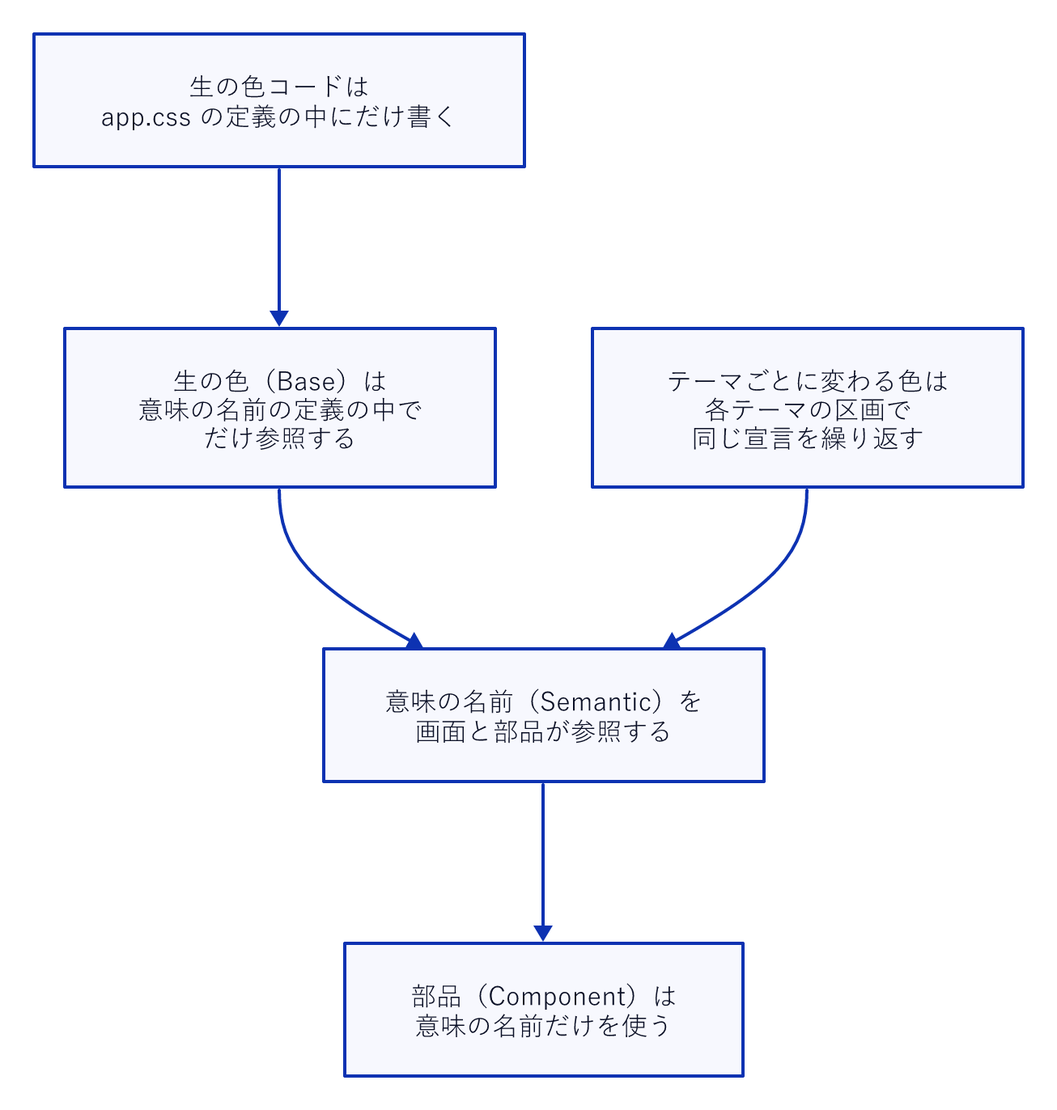
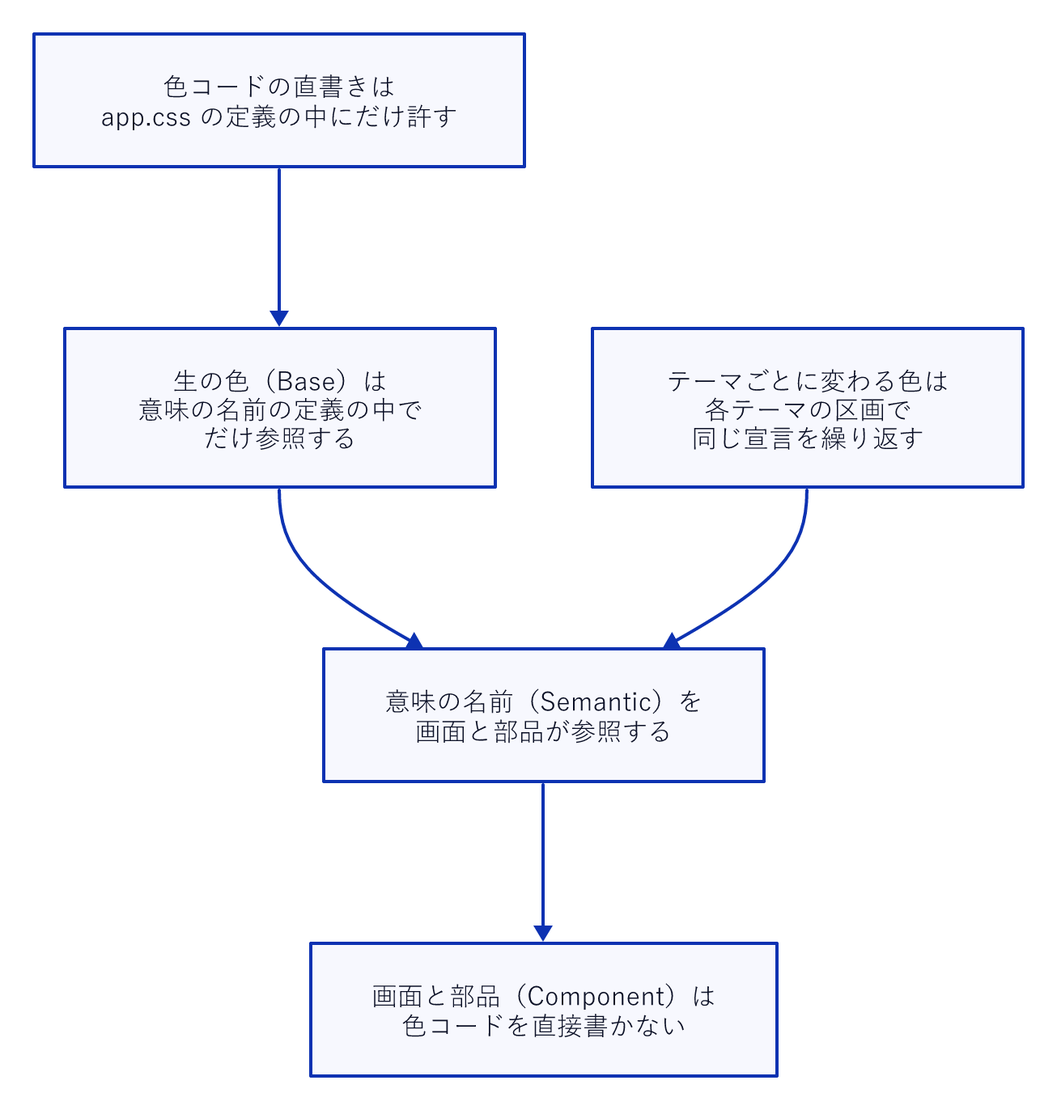
docs(book): 改訂 4 — 第Ⅱ部-1〜8 に査読の指摘を反映する
何を:
- 第Ⅱ部-1 / 4 / 8 の群の導入を「この章から〜を扱います」型のメタ談話から、製品の事実と問いの形に書き直した
- 第Ⅱ部-1「なぜ SvelteKit だったのか」を著者の一人称に直し、裏の取れない「コールドスタート 1〜2 秒で運用」と「2026 年 7 月から本番は Aurora DSQL」の断定を外した。AGENTS.md の欠落、Dependabot の版の区分、型情報を使う静的検査の文を直した
- 第Ⅱ部-2 の窓口 / 正面 / 実装固有の取得部品の呼び分け、事故の数（3 つ）、契約→プラン、前者 / 後者の指示語を直した
- 第Ⅱ部-3 の「色コードの直書き」と「生の色」の区別、基本部品名のコード表記、ヘッダーの語を直した
- 第Ⅱ部-4 に楽観的な並行制御と行単位のアクセス制御の初出の定義を置き、第Ⅱ部-6 に短い言い直しを添えた。台帳の述語の引用を平文にした
- 第Ⅱ部-5 の活動セット / やることの一覧 / 登録簿、第Ⅱ部-6 の関係データベース / 避けられなくする要因 / 当たる、第Ⅱ部-7 の特定の区画への集中 / 確かめる、第Ⅱ部-8 の設計書の表と実装の書き分け / 乱数 / 一時パスワードの比較 / おやカギコードの関門を直した
- 図 3 枚（layered-architecture / design-system / family-group）のラベルを直して描き直した

何のために:
- p2a 査読報告（tmp/briefs/reports/p2a-review.md）の [止める] と [直す] を全件反映し、[任意] のうち妥当なものを反映するため。第Ⅱ部-7 の共有 PIN の節と第Ⅱ部-1 の技術スタック表の段落は改訂 1 で意図して削除したものなので復元していない

検証:
- textlint（zenn）: 8 章とも errors 0 / check-terms T4: 8 章とも警告 0 / check-zenn Z13: 8 章とも警告 0 / check-diagrams: errors 0
- npm run check: 全段 errors 0 / npm test: 全 pass
- 図 3 枚の PNG を開いて確認した

diff --git a/books/ganbari-quest-design/layered-architecture.md b/books/ganbari-quest-design/layered-architecture.md
@@ -4,9 +4,9 @@ title: "第Ⅱ部-2　5 つの層と 4 つのデータベース実装 ― 画面
 
 > リポジトリ: [Takenori-Kusaka/ganbari-quest](https://github.com/Takenori-Kusaka/ganbari-quest)
 
-アプリは 5 つの層に分かれ、上の層は下の層にだけ依存します。画面は 71 ページと 108 本の API、サービスは 121 本、データ取得の窓口の型は 38 本です。層に分ける設計は珍しくありません。設計図は 2026 年 4 月からあり、生成AIはそれを読んで書いていました。それでも境界は何度も破られました。設計図を読める生成AIに、層の境界を守らせるには何が要るのでしょうか。
+アプリは 5 つの層に分かれ、上の層は下の層にだけ依存します。画面は 71 ページと 108 本の API、サービスは 121 本、データ取得の窓口の型（インターフェース）は 38 本です。層に分ける設計は珍しくありません。設計図は 2026 年 4 月からあり、生成AIはそれを読んで書いていました。それでも境界は何度も破られました。設計図を読める生成AIに、層の境界を守らせるには何が要るのでしょうか。
 
-守るのは設計図ではなく、境界を越えた瞬間に落ちるテストでした。境界を破った 4 つの事故と、事故のあとに置かれたテストを順に見ます。
+守るのは設計図ではなく、境界を越えた瞬間に落ちるテストでした。境界を破った 3 つの事故と、事故のあとに置かれたテストを順に見ます。
 
 ## 5 つの層
 
@@ -20,7 +20,7 @@ title: "第Ⅱ部-2　5 つの層と 4 つのデータベース実装 ― 画面
 
 画面の層の決まりは短いものです。`+page.svelte` に業務の処理を書かない。データの取得は `+page.server.ts` の `load` で行う。画面部品の中で直接 `fetch` しない。`<style>` は 50 行以下で、行内の見た目の指定は動的な値だけ。サービスの層の決まりは「`+server.ts` からデータベース接続層を直接呼ばず、必ずサービスを経由する」です[^archdoc]。
 
-設計パターンは 4 つです。データ取得を型の裏に隠す窓口、実装を選んで返す選択関数、複数の部品を 1 つの入口にまとめる正面、そして後処理のフックです。フックは、活動を記録したあとに走る副作用（スタンプ、レベル判定、通知）を、実行時の読み込みと例外の捕捉で疎に結びます。1 つのフックが失敗しても、記録そのものは止まりません[^archdoc]。
+設計パターンは 4 つです。データベースの実装ごとに取得の処理をまとめる部品、実装を選んで返す選択関数、それらを 1 つの入口にまとめる窓口、そして後処理のフックです。フックは、活動を記録したあとに走る副作用（スタンプ、レベル判定、通知）を、実行時の読み込みと例外の捕捉で疎に結びます。1 つのフックが失敗しても、記録そのものは止まりません[^archdoc]。
 
 ## 4 つのデータベース実装
 
@@ -41,19 +41,19 @@ title: "第Ⅱ部-2　5 つの層と 4 つのデータベース実装 ― 画面
 
 **狙い。** 実装の判定は、環境変数の値を見る 1 つの関数に寄せてありました。Aurora DSQL かどうかを返す関数です。
 
-**起きたこと。** その関数が `pglite` を既定の `sqlite` として扱っていました。NUC では、活動の記録と取り消しを 1 つのトランザクションで行う経路、UUID の防護、置き換え取り込みの PostgreSQL 向けの手順がすべて無効になっていました。手元の SQLite でも本番の Aurora DSQL でも再現せず、NUC の PGlite でだけ起きます[^backend]。
+**起きたこと。** その関数が `pglite` を既定の `sqlite` として扱っていました。NUC では、活動の記録と取り消しを 1 つのトランザクションで行う経路、識別子の形式（UUID）の検査、置き換え取り込みの PostgreSQL 向けの手順がすべて無効になっていました。手元の SQLite でも本番の Aurora DSQL でも再現せず、NUC の PGlite でだけ起きます[^backend]。
 
 同じ月に、もう 1 つ見つかりました。使用時間の記録の窓口が、SQLite の実装を直接読み込んでいました。本番の PostgreSQL 系では表が作られておらず例外になり、警告のログと「0 分」の表示に化けていました[^facadetest]。
 
 **なぜ。** 判定を「Aurora DSQL か、それ以外か」の 2 値で書いたため、PGlite が「それ以外」に落ちました。窓口が実装を直接読み込んだのは、窓口の決まりが文書にしか無かったからです。
 
-**変えたこと。** 判定を「PostgreSQL 系（Aurora DSQL と PGlite）か、SQLite か」の 2 値にし、`isPgBackend()` の 1 関数に寄せました。Aurora DSQL と PGlite を個別に分岐しません[^backend]。窓口にはテストが 3 条件を検査します。窓口は `./sqlite/`、`./dsql/`、`./demo/` を読み込まない。選択関数 `getRepos()` を少なくとも 1 回呼ぶ。窓口の型ごとに 3 つの実装ファイルが揃っている[^facadetest]。
+**変えたこと。** 判定を「PostgreSQL 系（Aurora DSQL と PGlite）か、SQLite か」の 2 値にし、`isPgBackend()` の 1 関数に寄せました。Aurora DSQL と PGlite を個別に分岐しません[^backend]。窓口に対しては、テストが 3 つの条件を検査します。窓口は `./sqlite/`、`./dsql/`、`./demo/` を読み込まない。選択関数 `getRepos()` を少なくとも 1 回呼ぶ。窓口の型ごとに 3 つの実装ファイルが揃っている[^facadetest]。
 
 **読者のリポジトリでは。** 実装を切り替える判定が「A か、それ以外か」の形なら、3 つ目の実装が来たときにどちらへ落ちるかを確かめてください。
 
 ## 層を自動検査が守る
 
-「画面からデータベースに触らない」は、生成AIへの指示書に散文で書かれていました。守るのは人でした。[第Ⅴ部-4](fitness-functions) で見るとおり、2026 年 6 月にこれは走査するテストになりました。`src/routes` 配下の全ファイルから、`drizzle-orm` や表の定義や実装固有の窓口への読み込みを列挙します。品質保証部のレビューで、実行時の読み込みによるすり抜けが見つかり、対象に加わりました[^routedb]。
+「画面からデータベースに触らない」は、生成AIへの指示書に散文で書かれていました。守るのは人でした。[第Ⅴ部-4](fitness-functions) で見るとおり、2026 年 6 月にこれは走査するテストになりました。`src/routes` 配下の全ファイルから、`drizzle-orm` や表の定義や実装固有の取得部品への読み込みを列挙します。品質保証部のレビューで、実行時の読み込みによるすり抜けが見つかり、対象に加わりました[^routedb]。
 
 窓口の一致のテスト、実装判定の 1 関数化、画面の境界のテスト。3 つとも 2026 年 6 月から 8 月に、事故のあとで置かれました。層の設計図は 4 月からあり、生成AIはそれを読んで書いていました。それでも境界は破られました。
 
@@ -65,17 +65,17 @@ title: "第Ⅱ部-2　5 つの層と 4 つのデータベース実装 ― 画面
 
 照合には、前方一致の落とし穴が記録されています。`/ops` に素朴な前方一致を使うと、`/opsedit` のような実在しない経路も巻き込みます。ファイルの冒頭に、綴りを直してはいけない負例として残されています[^authorization]。
 
-識別子の取り違えにも防護があります。認証基盤が返す利用者の識別子（`sub`）は、アプリのデータベースの `users.user_id` ではありません。所属、招待、子供の表はすべて後者を参照します。前者を渡すと一致する行が無く、「削除したのに消えない」「本人の判定が効かない」が静かに起きます。データベースを触る経路は必ず `requireAppUserId()` から取り、Cognito 以外の認証では引けない場合に 401 で拒否します。前者への切り戻しは作りません[^guards]。
+識別子の取り違えにも防護があります。認証基盤が返す利用者の識別子（`sub`）は、アプリのデータベースの `users.user_id` ではありません。所属、招待、子供の表はすべてアプリの利用者の識別子を参照します。認証基盤の識別子を渡すと一致する行が無く、「削除したのに消えない」「本人の判定が効かない」が静かに起きます。データベースを触る経路は必ず `requireAppUserId()` からアプリの利用者の識別子を取り、Cognito 以外の認証で引けない場合は 401 で拒否します。引けないときに認証基盤の識別子で代用する道は作りません[^guards]。
 
 ## 使われていなかった判定層
 
-**狙い。** 機能の可否の判断を 1 か所に集める層があります。`can()` は入出力を持たない純粋な関数で、「この機能はどの実行モードとどの契約で使えるか」の正本になるはずでした[^capabilities]。
+**狙い。** 機能の可否の判断を 1 か所に集める層があります。`can()` は外部への読み書きを持たない純粋な関数で、「この機能はどの実行モードとどのプランで使えるか」の正本になるはずでした[^capabilities]。
 
-**起きたこと。** 2026 年 9 月の監査で、この層の 3 つの機能が契約の条件を独自に持っていることが見つかりました。しかも本番から一度も呼ばれておらず、家族への招待の可否は「家族プラン以外は拒否」で、契約上限の判定を担う別のサービスの「スタンダードは 4 人まで招待可」と正反対でした。配線した瞬間にスタンダードの契約者の招待が 403 になる地雷です[^capabilities]。
+**起きたこと。** 2026 年 9 月の監査で、この層の 3 つの機能がプランの条件を独自に持っていることが見つかりました。しかも本番から一度も呼ばれておらず、家族への招待の可否は「家族プラン以外は拒否」で、プラン上限の判定を担う別のサービスの「スタンダードは 4 人まで招待可」と正反対でした。配線した瞬間にスタンダードの契約者の招待が 403 になる地雷です[^capabilities]。
 
 **なぜ。** 設計として正しい層を作り、そこに正しそうな判断を書き、呼び出す側を配線しなかったからです。呼ばれないコードは、間違っていても落ちません。
 
-**変えたこと。** 3 件を削除し、契約の判定の正本を契約上限のサービス 1 本に戻しました[^capabilities]。「配線の確認は実装の確認ではない」という [第Ⅳ部-5](sixty-to-hundred) の言葉は、この事故から出ました。
+**変えたこと。** 3 件を削除し、プランの判定の正本をプラン上限のサービス 1 本に戻しました[^capabilities]。「配線の確認は実装の確認ではない」という [第Ⅳ部-5](sixty-to-hundred) の言葉は、この事故から出ました。
 
 **読者のリポジトリでは。** 判断を集約する層を作ったら、その層が本番の経路から呼ばれているかを検索してください。呼ばれていない正しい層は、配線した日に事故を起こします。
 
@@ -109,4 +109,4 @@ title: "第Ⅱ部-2　5 つの層と 4 つのデータベース実装 ― 画面
 
 [^guards]: 認証の防護の関数。`requireAppUserId()` と、認証基盤の識別子をアプリの利用者の識別子と取り違える実害。出典: [src/lib/server/auth/guards.ts](https://github.com/Takenori-Kusaka/ganbari-quest/blob/3af6c2ed9fd4fe5766fc80c255656e940f8ec8f0/src/lib/server/auth/guards.ts)
 
-[^capabilities]: 機能の可否を決める層。純粋な関数の設計、契約の条件を置かない理由（未配線で二重定義だった 3 件と、スタンダードの招待が 403 になる地雷）。出典: [src/lib/policy/capabilities.ts](https://github.com/Takenori-Kusaka/ganbari-quest/blob/3af6c2ed9fd4fe5766fc80c255656e940f8ec8f0/src/lib/policy/capabilities.ts)
+[^capabilities]: 機能の可否を決める層。純粋な関数の設計、プランの条件を置かない理由（未配線で二重定義だった 3 件と、スタンダードの招待が 403 になる地雷）。出典: [src/lib/policy/capabilities.ts](https://github.com/Takenori-Kusaka/ganbari-quest/blob/3af6c2ed9fd4fe5766fc80c255656e940f8ec8f0/src/lib/policy/capabilities.ts)

diff --git a/books/ganbari-quest-design/data-modeling.md b/books/ganbari-quest-design/data-modeling.md
@@ -4,7 +4,7 @@ title: "第Ⅱ部-4　生成AIと行う形式データモデリング ― 概念
 
 > リポジトリ: [Takenori-Kusaka/ganbari-quest](https://github.com/Takenori-Kusaka/ganbari-quest)
 
-第Ⅱ部の 2 つ目の群はデータです。この章から 4 章で、データの設計の進め方、子供ごとに持つデータの原則、本番のデータベース Aurora DSQL、そして家族の間のデータの分離を扱います。
+データの群には 4 つの問いがあります。設計をどう進めるか。活動やごほうびを家族で持つのか子供ごとに持つのか。本番のデータベースに何を選ぶか。家族の間でデータをどう分けるか。最初は設計の進め方です。
 
 2026 年 7 月、データベースを DynamoDB から Aurora DSQL に移すにあたり、データの構造を白紙から設計し直しました。生成AIに設計を任せると、設計より先にコードを書きます。コードが動き、テストが通ると、設計が正しかったように見えます。生成AIに、コードを書く前に設計を終えさせるには、どうすればよいのでしょうか。
 
@@ -41,17 +41,17 @@ title: "第Ⅱ部-4　生成AIと行う形式データモデリング ― 概念
 
 概念の関門の「DynamoDB の遺産を継承しない」は、この設計の核心でした。概念モデルの冒頭は、既存の型定義や表の定義を「現状の振る舞いを理解するための参照であって基準ではない」と宣言します。1 つの表に全部を入れていた時代の歪みは概念に持ち込まず、指摘して削ぐ。歪みとして挙がるのは、中身の読めない識別子の一律の強制、正規化されていない埋め込み、派生した値の二重保持、暗黙のテナントの導出、役割の二重書きです[^m1]。
 
-物理の関門は、実機の制約に拠って立ちます。主キーは作成後に変更できない、連番と外部キーは無い、索引は非同期の作成が必須。1 トランザクションは 3,000 行と 10MiB まで、表の定義文は 1 文ずつ、楽観的な並行制御で衝突すると 40001、行単位のアクセス制御は無い。10 の制約それぞれに実機検証の実測と AWS 公式の出典が付き、「すべて構造の決定（実測不要）」とされています[^m3]。
+物理の関門は、実機の制約に拠って立ちます。主キーは作成後に変更できない、連番と外部キーは無い、索引は非同期の作成が必須。1 トランザクションは 3,000 行と 10MiB まで、表の定義文は 1 文ずつ。更新の前にロックを取らず、コミットの時に衝突したほうを失敗させる楽観的な並行制御で、衝突は 40001 で返る。行ごとに誰が読めるかをデータベースが決める行単位のアクセス制御は無い。10 の制約それぞれに実機検証の実測と AWS 公式の出典が付き、「すべて構造の決定（実測不要）」とされています[^m3]。
 
 ## 13 冊の台帳
 
-各関門のレビューは、それまでの会話を引き継がない分身が 3 つの独立した観点で行います。ドメインの専門家、データの構造の専門家、そして反対役です。Fagan の検査法に倣い、成果物の提示、独立した並列レビュー、欠陥のログ、手直し、再レビューを、未解決の必須と致命の指摘が 0 件に収束するまで回します。台帳は 13 冊です。概念が 6 回、論理が 3 回、物理が 3 回、実装計画が 1 回[^process]。
+各関門のレビューは、記憶を引き継がない分身が 3 つの独立した観点で行います。ドメインの専門家、データの構造の専門家、そして反対の立場のレビュー役です。Fagan の検査法に倣い、成果物の提示、独立した並列レビュー、欠陥のログ、手直し、再レビューを、未解決の必須と致命の指摘が 0 件に収束するまで回します。台帳は 13 冊です。概念が 6 回、論理が 3 回、物理が 3 回、実装計画が 1 回[^process]。
 
 ![生成AIが成果物を提示し、記憶を引き継がない分身 3 体が別々の観点で並列にレビューし、指摘を欠陥ログと決定台帳に記録する。必須と致命の指摘が 0 件になるまで手直しを繰り返し、0 件になったら企画部が決裁して次の関門へ進む](/images/ganbari-quest-design/data-modeling.png)
 
 概念の 1 回目の台帳は、3 観点すべてが不合格を出したところから始まります。必須の指摘は 13 件。根本の原因は 1 つで、家族設定のキーと値の対を読み替えの規則で処理せず暗黙に捨てていたことでした。この根本への対応から必須の大半が連鎖して解消され、おやカギコード、減衰の方針、アカウントの一生などが概念に昇格しました[^m1ledger]。
 
-6 回目の変更は、レビューの収束の仕方を示しています。3 回続けて同じ根（点数の次元の値を持つが、台帳の付与に裏付けられない観測値）から必須の指摘が出ました。そこで列挙で塞ぐのをやめ、述語で根絶しました。「台帳の経済的な付与の項目に対応する観測値だけを照合の対象とし、台帳の付与に裏付けられない点数の値は定義上、対象外」。新たに台帳に無い点数の値が現れても自動的に対象外になり、列挙漏れが起きません[^m1]。[第Ⅴ部-4](fitness-functions) で見る「網羅漏れを黙って見逃さない」と同じ形の判断が、設計の段階で行われています。
+6 回目の変更は、レビューの収束の仕方を示しています。3 回続けて同じ根（点数の次元の値を持つが、台帳の付与に裏付けられない観測値）から必須の指摘が出ました。そこで列挙で塞ぐのをやめ、述語で根絶しました。ポイントの台帳に記録された付与だけを正とし、台帳に無い点数は最初から照合の対象に入れない、という述語です。新たに台帳に無い点数の値が現れても自動的に対象外になり、列挙漏れが起きません[^m1]。[第Ⅴ部-4](fitness-functions) で見る「網羅漏れを黙って見逃さない」と同じ形の判断が、設計の段階で行われています。
 
 ## 人が決めるもの
 
@@ -63,13 +63,13 @@ title: "第Ⅱ部-4　生成AIと行う形式データモデリング ― 概念
 
 ## 物理モデルの帰結
 
-物理の関門の帰結は、制約を逆手に取った設計です。外部キーが無いので、参照整合は 4 つの手段に分類されました。複合の主キーに参照先のキーを含めて構造的に存在を保証する。生成列と一意制約の索引でデータベースに物理的に強制させる。アプリの層の単一強制点で、書き込みの経路が保証する。そして存在の保証が無い弱い参照。オーナーが家族に 1 人以下という不変条件は、生成列 `owner_guard` と一意制約の索引でデータベースが物理的に拒否します。試作で、同じ家族の 2 人目のオーナーが 23505 で拒否されることを実機で確かめました[^m3]。
+物理の関門の帰結は、制約を逆手に取った設計です。外部キーが無いので、参照整合は 4 つの手段に分類されました。複合の主キーに参照先のキーを含めて構造的に存在を保証する。生成列と一意制約の索引でデータベースに物理的に強制させる。アプリの層の単一強制点で、書き込みの経路が保証する。そして存在の保証が無い弱い参照。オーナーが家族に 1 人以下という不変条件は、生成列 `owner_guard` と一意制約の索引でデータベースが物理的に拒否します。試作で、同じ家族の 2 人目のオーナーが一意制約違反（23505）で拒否されることを実機で確かめました[^m3]。
 
-主キーは変更できないので、全テナント表の主キーは凍結の一覧で固定されています。`family_id` を先頭に置く複合の主キーで、UUID v4 は特定の区画への集中を作らず、時刻の列は主キーに入れません。凍結の一覧と Markdown の表と Drizzle ORM の定義の 3 つが一致することを契約テストが検査します。主キーの変更は「表と一覧の同時更新と、移行の設計判断の記録」を人手に強制する点です[^pkfreeze]。現在の表は 59 です。
+主キーは変更できないので、全テナント表の主キーは凍結の一覧で固定されています。`family_id` を先頭に置く複合の主キーで、UUID v4 は特定の区画への集中を作らず、時刻の列は主キーに入れません。凍結の一覧と Markdown の表と Drizzle ORM の定義の 3 つが一致することを契約テストが検査します。主キーを変えるには、表と一覧の同時更新と、移行の設計判断の記録を、人の手で行わなければなりません[^pkfreeze]。現在、表は 59 あります。
 
 ## 効いたか、足りなかったか
 
-この手順は、この製品で最も成功した生成AIとの協働でした。6 つの根本原因は、7 か月の他の場面でも繰り返し現れたものです。設計を関門で通し、記憶を引き継がない分身に反対させ、台帳に残す。この形を最初の月に持っていれば、[第Ⅲ部-2](cdk-stacks) の構成の跨ぎや [第Ⅱ部-2](layered-architecture) の判定層のような「設計は正しいが配線されていない」事故は減ったはずです。
+この手順は、この製品で最も成功した生成AIとの協働でした。6 つの根本原因は、7 か月の他の場面でも繰り返し現れたものです。設計を関門で通し、記憶を引き継がない分身に反対させ、台帳に残す。この形を最初の月に持っていれば、[第Ⅲ部-2](cdk-stacks) の AWS の構成単位（スタック）を跨いだ参照や [第Ⅱ部-2](layered-architecture) の判定層のような「設計は正しいが配線されていない」事故は減ったはずです。
 
 代償はトークンです。13 冊の台帳と 2,900 行の設計文書は、記憶を引き継がない分身を繰り返し起動して得たものです。[第Ⅷ部-1](by-the-numbers) で、この期間のトークン消費を見ます。
 

diff --git a/books/ganbari-quest-design/per-child-model.md b/books/ganbari-quest-design/per-child-model.md
@@ -24,7 +24,7 @@ title: "第Ⅱ部-5　子供ごとを主軸に、家族共通は限定して ―
 
 案 C の判定理由が、この記録で最も生成AI固有の記述です。「家族共通を主軸とし、子供ごとの上書き」を提案するたびに、オーナーが「親は子供主体で考える」と修正した。置かれていた枠組みに引きずられて後付けの理屈が生まれ、同じ提案が 3 回繰り返された。記録はそれを、確立されたパターン（多言語化の基本の文と言語ごとの上書き）に引きずられた結果と書いています[^adr55]。
 
-採用した案 A には先例があります。Cozi は家族で共有する予定を、構成員に割り当てて子供ごとにしています。Greenlight は手伝いとお小遣いが子供ごとで、家族共通は決済の決まりだけです。Apple の Family Sharing は Screen Time や Ask to Buy が子供ごとで、Music や Storage は家族です。設計上の利点も挙げられています。ドメイン駆動設計の集約の根が子供に閉じることで、子供を跨ぐ不変条件が不要になり、データ取得の層が単純になります[^adr55]。
+採用した案 A には先例があります。Cozi は家族で共有するやることの一覧を、構成員に割り当てて子供ごとにしています。Greenlight は手伝いとお小遣いが子供ごとで、家族共通は決済の決まりだけです。Apple の Family Sharing は Screen Time や Ask to Buy が子供ごとで、Music や Storage は家族です。設計上の利点も挙げられています。ドメイン駆動設計の集約の根が子供に閉じることで、子供を跨ぐ不変条件が不要になり、データ取得の層が単純になります[^adr55]。
 
 ## 6 つの持ち方
 
@@ -47,7 +47,7 @@ title: "第Ⅱ部-5　子供ごとを主軸に、家族共通は限定して ―
 
 **狙い。** 子供ごとに持つ種類（活動、ごほうび、チャレンジ）の取り込みは、子供の単位で重複を判定しなければなりません。
 
-**起きたこと。** 活動の取り込みが、家族全体で「どこか 1 人でも同名を持てば、全子供で見送る」重複判定になっていました。1 人目に取り込み済みのひとまとまりを 2 人目に取り込むと全部見送られ、`imported: 0` で「追加を押しても無反応」に見えます。顧客の苦情になりました[^scope]。
+**起きたこと。** 活動の取り込みが、家族全体で「どこか 1 人でも同名を持てば、全子供で見送る」重複判定になっていました。1 人目に取り込み済みの活動セットを 2 人目に取り込むと全部見送られ、`imported: 0` で「追加を押しても無反応」に見えます。顧客の苦情になりました[^scope]。
 
 **なぜ。** データの持ち方は決めても、それを読む側の問い合わせの範囲は決めていなかったからです。片方だけ正しくても、顧客には壊れて見えます。
 
@@ -59,13 +59,13 @@ title: "第Ⅱ部-5　子供ごとを主軸に、家族共通は限定して ―
 
 データの持ち方が種類ごとに違っても、親の管理画面の表示の軸は 3 つの資源（活動、ごほうび、チェックリスト）とも子供が主軸で統一されています。子供のタブで「選択中の子供の資源」を表示し、追加と取り込みは「どのお子さまに?」の対話画面で先を選びます。チェックリストは家族共通の雛形のまま、「選択中の子供に配られている雛形」を絞って表示するだけで、雛形を子供ごとに複製しません[^registry]。
 
-この宣言は 1 つの一覧に集約され、画面の表示の軸、結びつけの画面、そしてデータの持ち方の 3 つを 1 か所で持ちます。データの持ち方の宣言と設計書の表の整合はずれの検査が見ており、文書の側だけ、一覧の側だけを変えると自動検査が落ちます。[第Ⅴ部-4](fitness-functions) で見る「一覧か明示的な除外の一覧のどちらかで説明されていること」の要求も、この一覧に対するものです[^registry]。
+この宣言は 1 つの登録簿に集約され、画面の表示の軸、結びつけの画面、そしてデータの持ち方の 3 つを 1 か所で持ちます。データの持ち方の宣言と設計書の表の整合はずれの検査が見ており、文書の側だけ、登録簿の側だけを変えると自動検査が落ちます。[第Ⅴ部-4](fitness-functions) で見る「登録簿か明示的な除外の一覧のどちらかで説明されていること」の要求も、この登録簿に対するものです[^registry]。
 
 ## 値域が 2 か所に書かれていた
 
 **狙い。** 家族のデータは、書き出して別の環境に取り込めます。アプリが許す値の範囲は、書き出しと取り込みで往復できる範囲に含まれていなければなりません。
 
-**起きたこと。** アプリ内の検証は Zod、通信用の定義は Valibot で、別のファイル、別のライブラリに値の範囲が直接書かれていました。活動のひとまとまりだけで実際のずれが 5 件ありました。基本ポイントはアプリ内が 100 以下、通信用が 10,000 以下で 100 倍の差。年齢の上限はアプリ内が 20 以下、通信用が 18 以下で、19 や 20 の行が往復できない。アイコンはアプリ内が 1〜2 文字素、通信用が UTF-16 で 20 単位と、数え方そのものが違い、結合子で繋いだ絵文字 2 個が往復できない。2 回連続で往復の止める指摘が出て、統合の監査を止めました[^adr66]。
+**起きたこと。** アプリ内の検証は Zod、通信用の定義は Valibot で、別のファイル、別のライブラリに値の範囲が直接書かれていました。活動セットだけで実際のずれが 5 件ありました。基本ポイントはアプリ内が 100 以下、通信用が 10,000 以下で 100 倍の差。年齢の上限はアプリ内が 20 以下、通信用が 18 以下で、19 や 20 の行が往復できない。アイコンはアプリ内が 1〜2 文字素、通信用が UTF-16 で 20 単位と、数え方そのものが違い、結合子で繋いだ絵文字 2 個が往復できない。往復できないことを理由に止める指摘が 2 回続けて出て、統合の監査を止めました[^adr66]。
 
 **なぜ。** 「アプリが許す範囲は往復できる範囲に含まれる」という不変条件が、どこにも機械で表明されていなかったからです。
 
